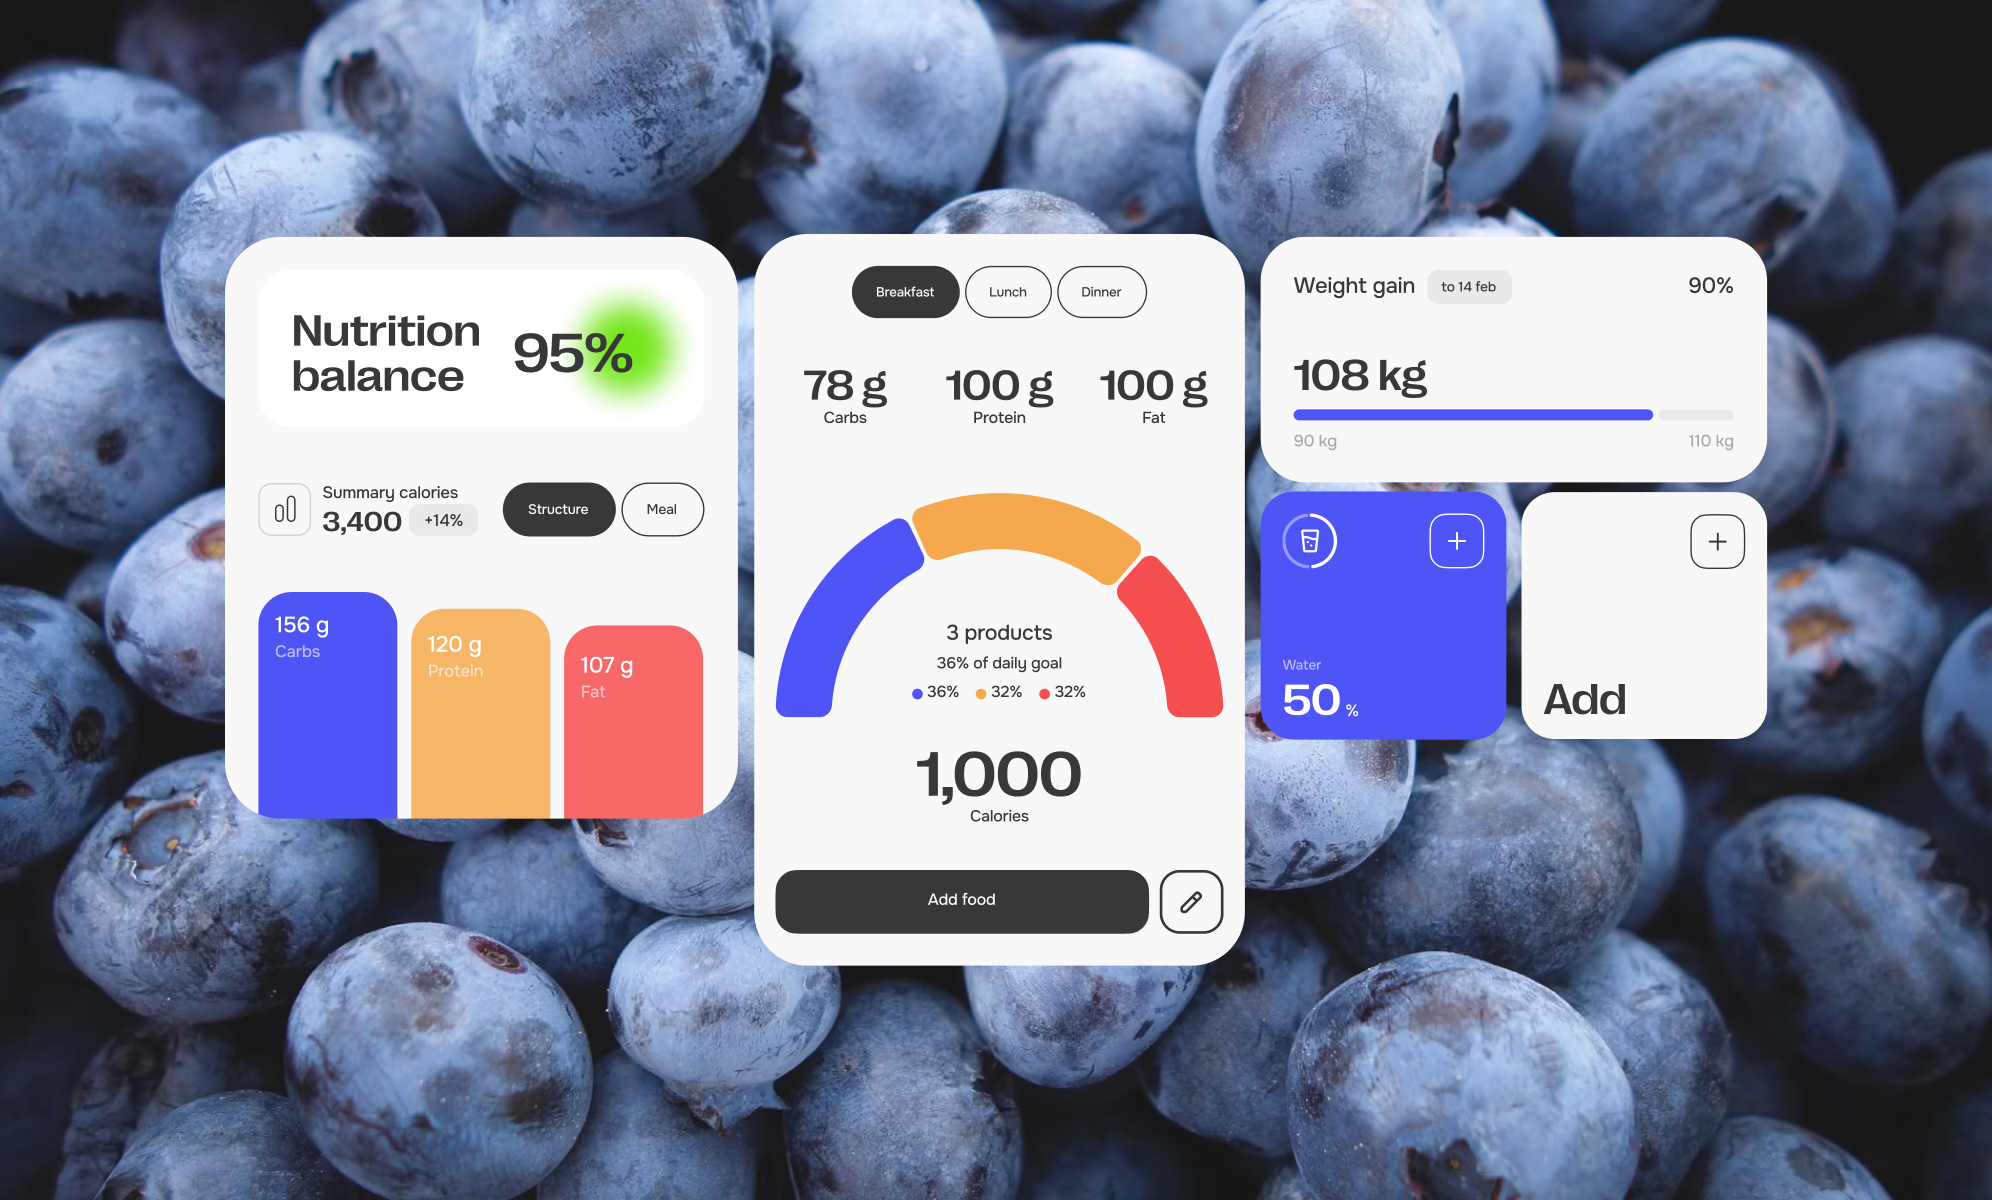
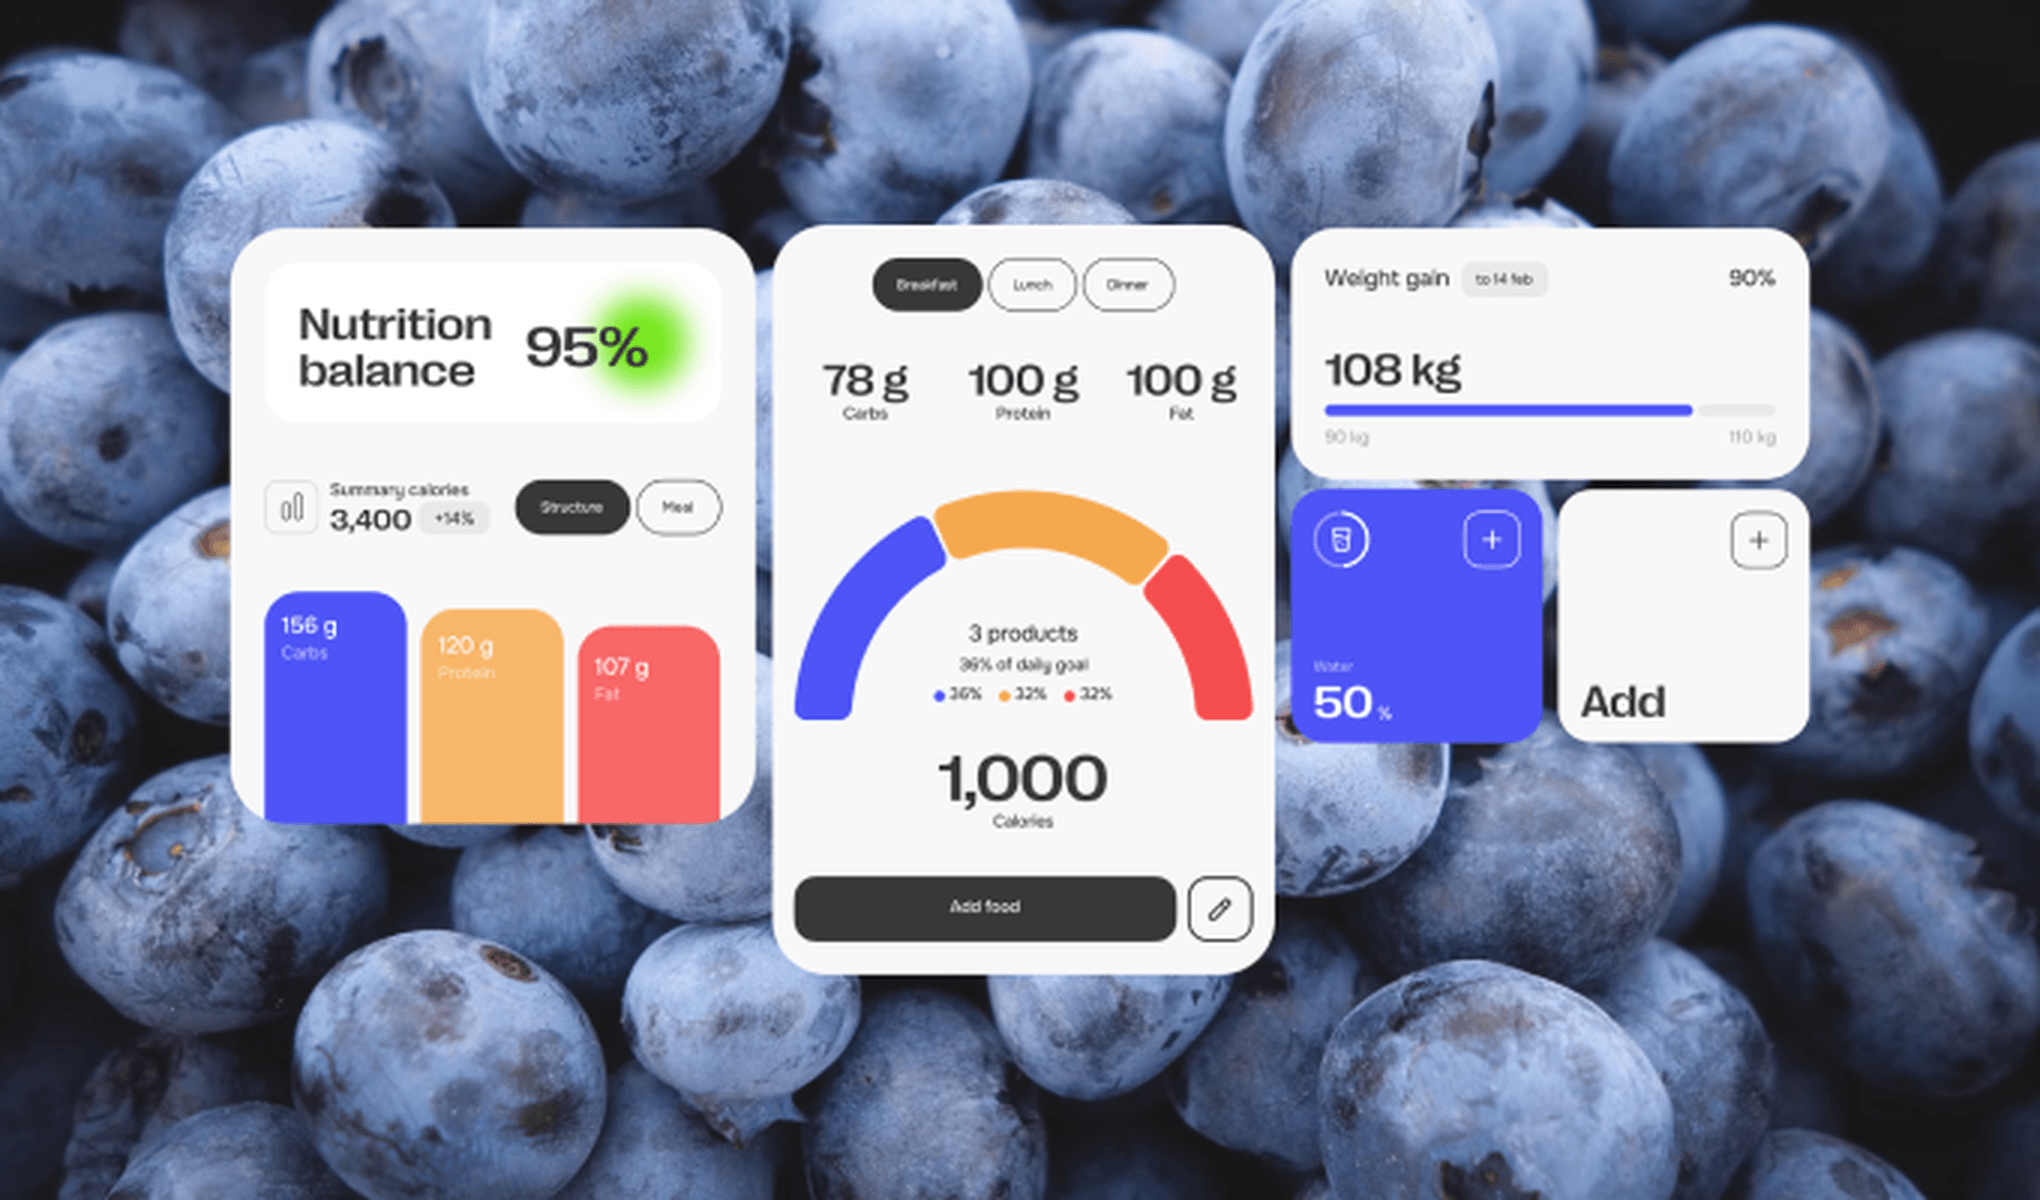
Sync projects block with figma 421:792 and mobile spacing

diff --git a/index.html b/index.html
@@ -20,7 +20,7 @@
       document.documentElement.classList.add('js');
     </script>
     <link rel="preload" as="image" href="./assets/images/home/hero-portrait.png" />
-    <link rel="stylesheet" href="./css/style.css?v=20260412-honorable-mentions-419-526-1" />
+    <link rel="stylesheet" href="./css/style.css?v=20260412-projects-421-792-1" />
   </head>
   <body class="home home--rebuild">
     <main>
@@ -162,7 +162,7 @@
                 <div class="project-card__media">
                   <img
                     class="project-card__cover"
-                    src="./assets/images/home/projects-marshall-figma-2040x1200.png"
+                    src="./assets/images/home/projects-marshall-figma-2040x1200.png?v=20260412-projects-421-792-1"
                     alt="Превью кейса MARSHALL"
                     loading="lazy"
                     decoding="async"
@@ -197,7 +197,7 @@
                 <div class="project-card__media">
                   <img
                     class="project-card__cover"
-                    src="./assets/images/home/projects-marshall-figma-2040x1200.png"
+                    src="./assets/images/home/projects-marshall-figma-2040x1200.png?v=20260412-projects-421-792-1"
                     alt="Превью кейса MARSHALL"
                     loading="lazy"
                     decoding="async"
@@ -232,7 +232,7 @@
                 <div class="project-card__media">
                   <img
                     class="project-card__cover"
-                    src="./assets/images/home/projects-hios-figma-1992x1200.png"
+                    src="./assets/images/home/projects-hios-figma-1992x1200.png?v=20260412-projects-421-792-1"
                     alt="Превью кейса HiOS"
                     loading="lazy"
                     decoding="async"
@@ -267,7 +267,7 @@
                 <div class="project-card__media">
                   <img
                     class="project-card__cover"
-                    src="./assets/images/home/projects-hios-figma-1992x1200.png"
+                    src="./assets/images/home/projects-hios-figma-1992x1200.png?v=20260412-projects-421-792-1"
                     alt="Превью кейса HiOS"
                     loading="lazy"
                     decoding="async"
@@ -302,7 +302,7 @@
                 <div class="project-card__media">
                   <img
                     class="project-card__cover"
-                    src="./assets/images/home/projects-lori-figma-1992x1200.png"
+                    src="./assets/images/home/projects-lori-figma-1992x1200.png?v=20260412-projects-421-792-1"
                     alt="Превью кейса Lori"
                     loading="lazy"
                     decoding="async"
@@ -340,7 +340,7 @@
                 <div class="project-card__media">
                   <img
                     class="project-card__cover"
-                    src="./assets/images/home/projects-lori-figma-1992x1200.png"
+                    src="./assets/images/home/projects-lori-figma-1992x1200.png?v=20260412-projects-421-792-1"
                     alt="Превью кейса Lori"
                     loading="lazy"
                     decoding="async"
@@ -553,6 +553,6 @@
       </section>
     </main>
 
-    <script src="./js/main.js?v=20260412-honorable-mentions-419-526-1" defer></script>
+    <script src="./js/main.js?v=20260412-projects-421-792-1" defer></script>
   </body>
 </html>

diff --git a/css/style.css b/css/style.css
@@ -4196,19 +4196,19 @@ main {
 }
 
 .home.home--rebuild .projects--figma .project-card__tags {
-  width: 158px;
+  width: auto;
   display: flex;
   flex-direction: column;
   align-items: flex-end;
-  gap: 8px;
-  flex: 0 0 158px;
+  gap: 4px;
+  flex: 0 0 auto;
 }
 
 .home.home--rebuild .projects--figma .project-card__tags-row {
   display: flex;
   align-items: flex-start;
   justify-content: flex-end;
-  gap: 8px;
+  gap: 4px;
 }
 
 .home.home--rebuild .projects--figma .project-card__tags--triple {
@@ -4220,9 +4220,10 @@ main {
   display: inline-flex;
   align-items: center;
   justify-content: center;
-  min-height: 40px;
-  padding: 8px 16px;
-  border: 1px solid #070707;
+  min-height: 0;
+  padding: 4px 6px;
+  border: 0;
+  background: rgba(7, 7, 7, 0.08);
   font-family: "Arial Narrow", "Arial", sans-serif;
   font-size: 16px;
   line-height: normal;
@@ -4308,7 +4309,7 @@ main {
   }
 
   .home.home--rebuild .projects--figma .project-item + .project-item {
-    margin-top: 80px;
+    margin-top: 96px;
   }
 
   .home.home--rebuild .projects--figma .project-item__desktop {
@@ -4378,8 +4379,8 @@ main {
   }
 
 .home.home--rebuild .projects--figma .project-card__tag {
-  min-height: 36px;
-  padding: 8px 14px;
+  min-height: 0;
+  padding: 4px;
   font-size: 14px;
   }
 }

diff --git a/marshall/index.html b/marshall/index.html
@@ -10,7 +10,7 @@
       name="description"
       content="Кейс MARSHALL: продуктовый сайт производителя автозапчастей, задача, цели проекта, результаты и роль."
     />
-    <link rel="preload" as="image" href="../assets/images/marshall/hero-cover-20260407.png" />
+    <link rel="preload" as="image" href="../assets/images/home/projects-marshall-figma-2040x1200.png?v=20260412-projects-421-792-1" />
     <link rel="stylesheet" href="../css/style.css?v=20260412-honorable-title-no-underline-1" />
     <link rel="stylesheet" href="../css/marshall.css?v=20260412-case-fluid-scale-1" />
   </head>
@@ -59,7 +59,7 @@
           <div class="marshall-page__hero-preview-wrap">
             <img
               class="marshall-page__hero-preview"
-              src="../assets/images/marshall/hero-cover-20260407.png"
+              src="../assets/images/home/projects-marshall-figma-2040x1200.png?v=20260412-projects-421-792-1"
               alt="Главный экран обновленного сайта MARSHALL"
               loading="eager"
               decoding="async"

diff --git a/hios/index.html b/hios/index.html
@@ -31,7 +31,7 @@
         <p class="marshall-page__role">
           <span class="marshall-page__role-label">Роль</span>
           <span class="marshall-page__role-dot" aria-hidden="true"></span>
-          <span>Продуктовый дизайнер</span>
+          <span>UI/UX дизайнер</span>
         </p>
       </aside>
 
